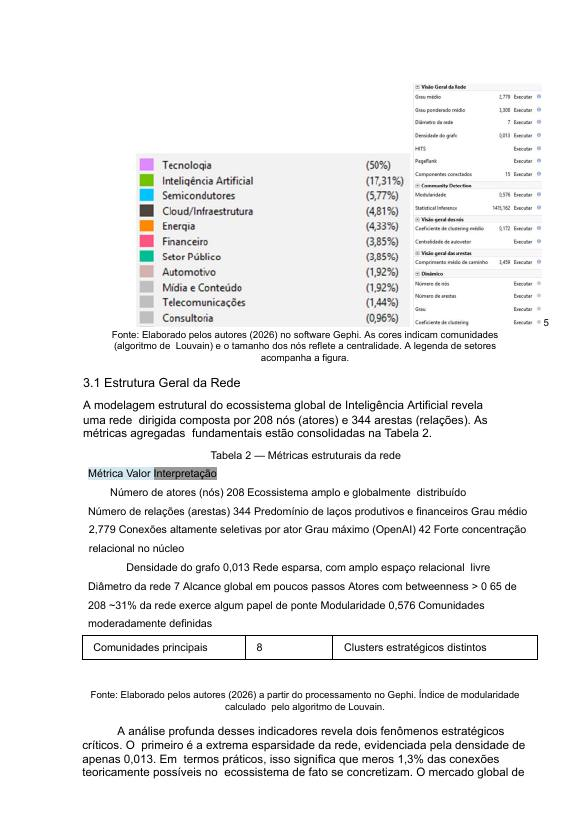
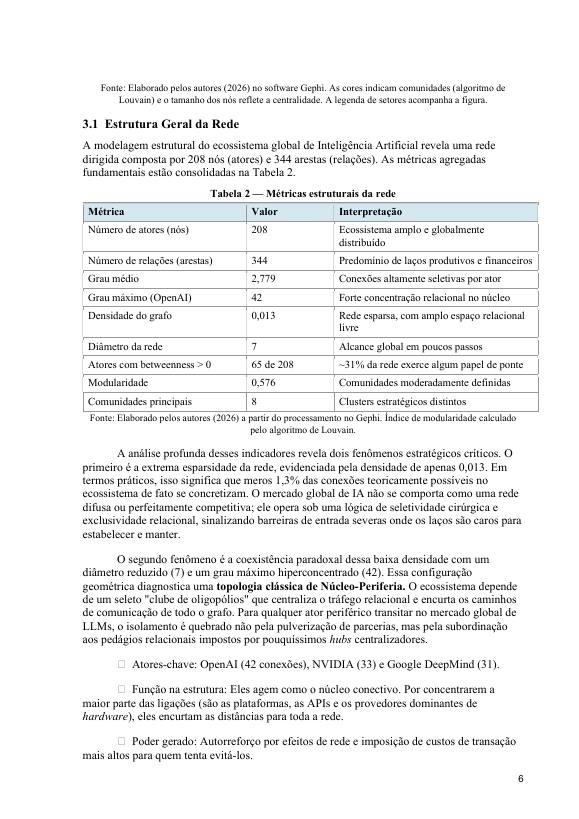
Artigo: capa com o grafo do Gephi e versão completa atualizada (20 páginas)
Claude-Session: https://claude.ai/code/session_01RJ4AVLLWqmrSucYSLGapwH

Changed region(s): [[0.1244, 0.0916, 0.9326, 0.9463]]

diff --git a/index.html b/index.html
@@ -10,6 +10,7 @@
 <link rel="preload" as="image" href="img/bees/p-02.jpg">
 <link rel="preload" as="image" href="img/logic/p-01.jpg">
 <link rel="preload" as="image" href="img/venus/p03.jpg">
+<link rel="preload" as="image" href="img/artigo/capa.jpg">
 <link rel="preconnect" href="https://fonts.googleapis.com">
 <link href="https://fonts.googleapis.com/css2?family=Inter+Tight:wght@300;400;500;600&display=swap" rel="stylesheet">
 <style>
@@ -458,8 +459,8 @@ const P=[
   desc:"Produto de tecnologia social (UX e educação) contra a vulnerabilidade feminina. Idealizei e lidero um time multidisciplinar de 14 pessoas, com MVP validado com ONGs e a rede Enactus. Venceu o Prêmio ODS 16 no Enactus Brasil e ficou no Top 80 do Desafio LED.",
   stack:["UX","Educação","Identidade visual","Mídia kit"],
   skills:["Liderança de time de 14 pessoas","Validação de MVP com ONGs","Comunicação de impacto"]},
- {id:"artigo",title:"Poder na rede de IA",short:"Gephi · Análise de Redes Sociais",role:"Artigo · PUC-Campinas 2026",cover:null,ink:"light",w:"w6",
-  slides:seq("artigo",8),
+ {id:"artigo",title:"Poder na rede de IA",short:"Gephi · Análise de Redes Sociais",role:"Artigo · PUC-Campinas 2026",cover:"img/artigo/capa.jpg",ink:"light",w:"w6",
+  slides:["img/artigo/capa.jpg",...seq("artigo",20)],
   desc:"Mapeamento do ecossistema global de LLMs com Análise de Redes Sociais no Gephi. Mostra que as plataformas de modelos dominam o volume de conexões, mas quem controla o sistema são intermediários de litografia, dados e energia.",
   stack:["Gephi","Análise de Redes Sociais","Betweenness","Modularidade"],
   skills:["Pesquisa quantitativa","Leitura estratégica do mercado de IA","Escrita acadêmica"],}
@@ -538,13 +539,12 @@ function openP(i){
   $('m-skills').innerHTML=cur.skills.map(s=>`<li>${s}</li>`).join('');
   $('m-link').innerHTML=cur.link?`<a class="pill lime ext" href="${cur.link[1]}">${cur.link[0]} ↗</a>`:'';
   const lk=$('m-link').querySelector('a');if(lk)lk.onclick=()=>closeM();
-  $('viewer').style.aspectRatio=cur.id==='artigo'?'4/5':'16/9';
-  $('viewer').style.maxHeight=cur.id==='artigo'?'78vh':'';
-  $('viewer').style.margin=cur.id==='artigo'?'0 auto':'';
   $('m-thumbs').innerHTML=cur.slides.map((s,j)=>`<img src="${s}" data-j="${j}" alt="Slide ${j+1}">`).join('');
   show();M.classList.add('on');document.body.style.overflow='hidden';M.querySelector('.x').focus();
 }
 function show(){
+  const page=/\/p-\d+\.jpg$/.test(cur.slides[k])&&cur.id==='artigo';
+  $('viewer').style.aspectRatio=page?'4/5':'16/9';$('viewer').style.maxHeight=page?'78vh':'';$('viewer').style.margin=page?'0 auto':'';
   $('m-img').src=cur.slides[k];$('m-img').alt=`${cur.title}, slide ${k+1}`;
   $('m-count').textContent=`${k+1} / ${cur.slides.length}`;
   [...$('m-thumbs').children].forEach((t,j)=>{t.classList.toggle('on',j===k);if(j===k)t.scrollIntoView({block:'nearest',inline:'nearest'})});
